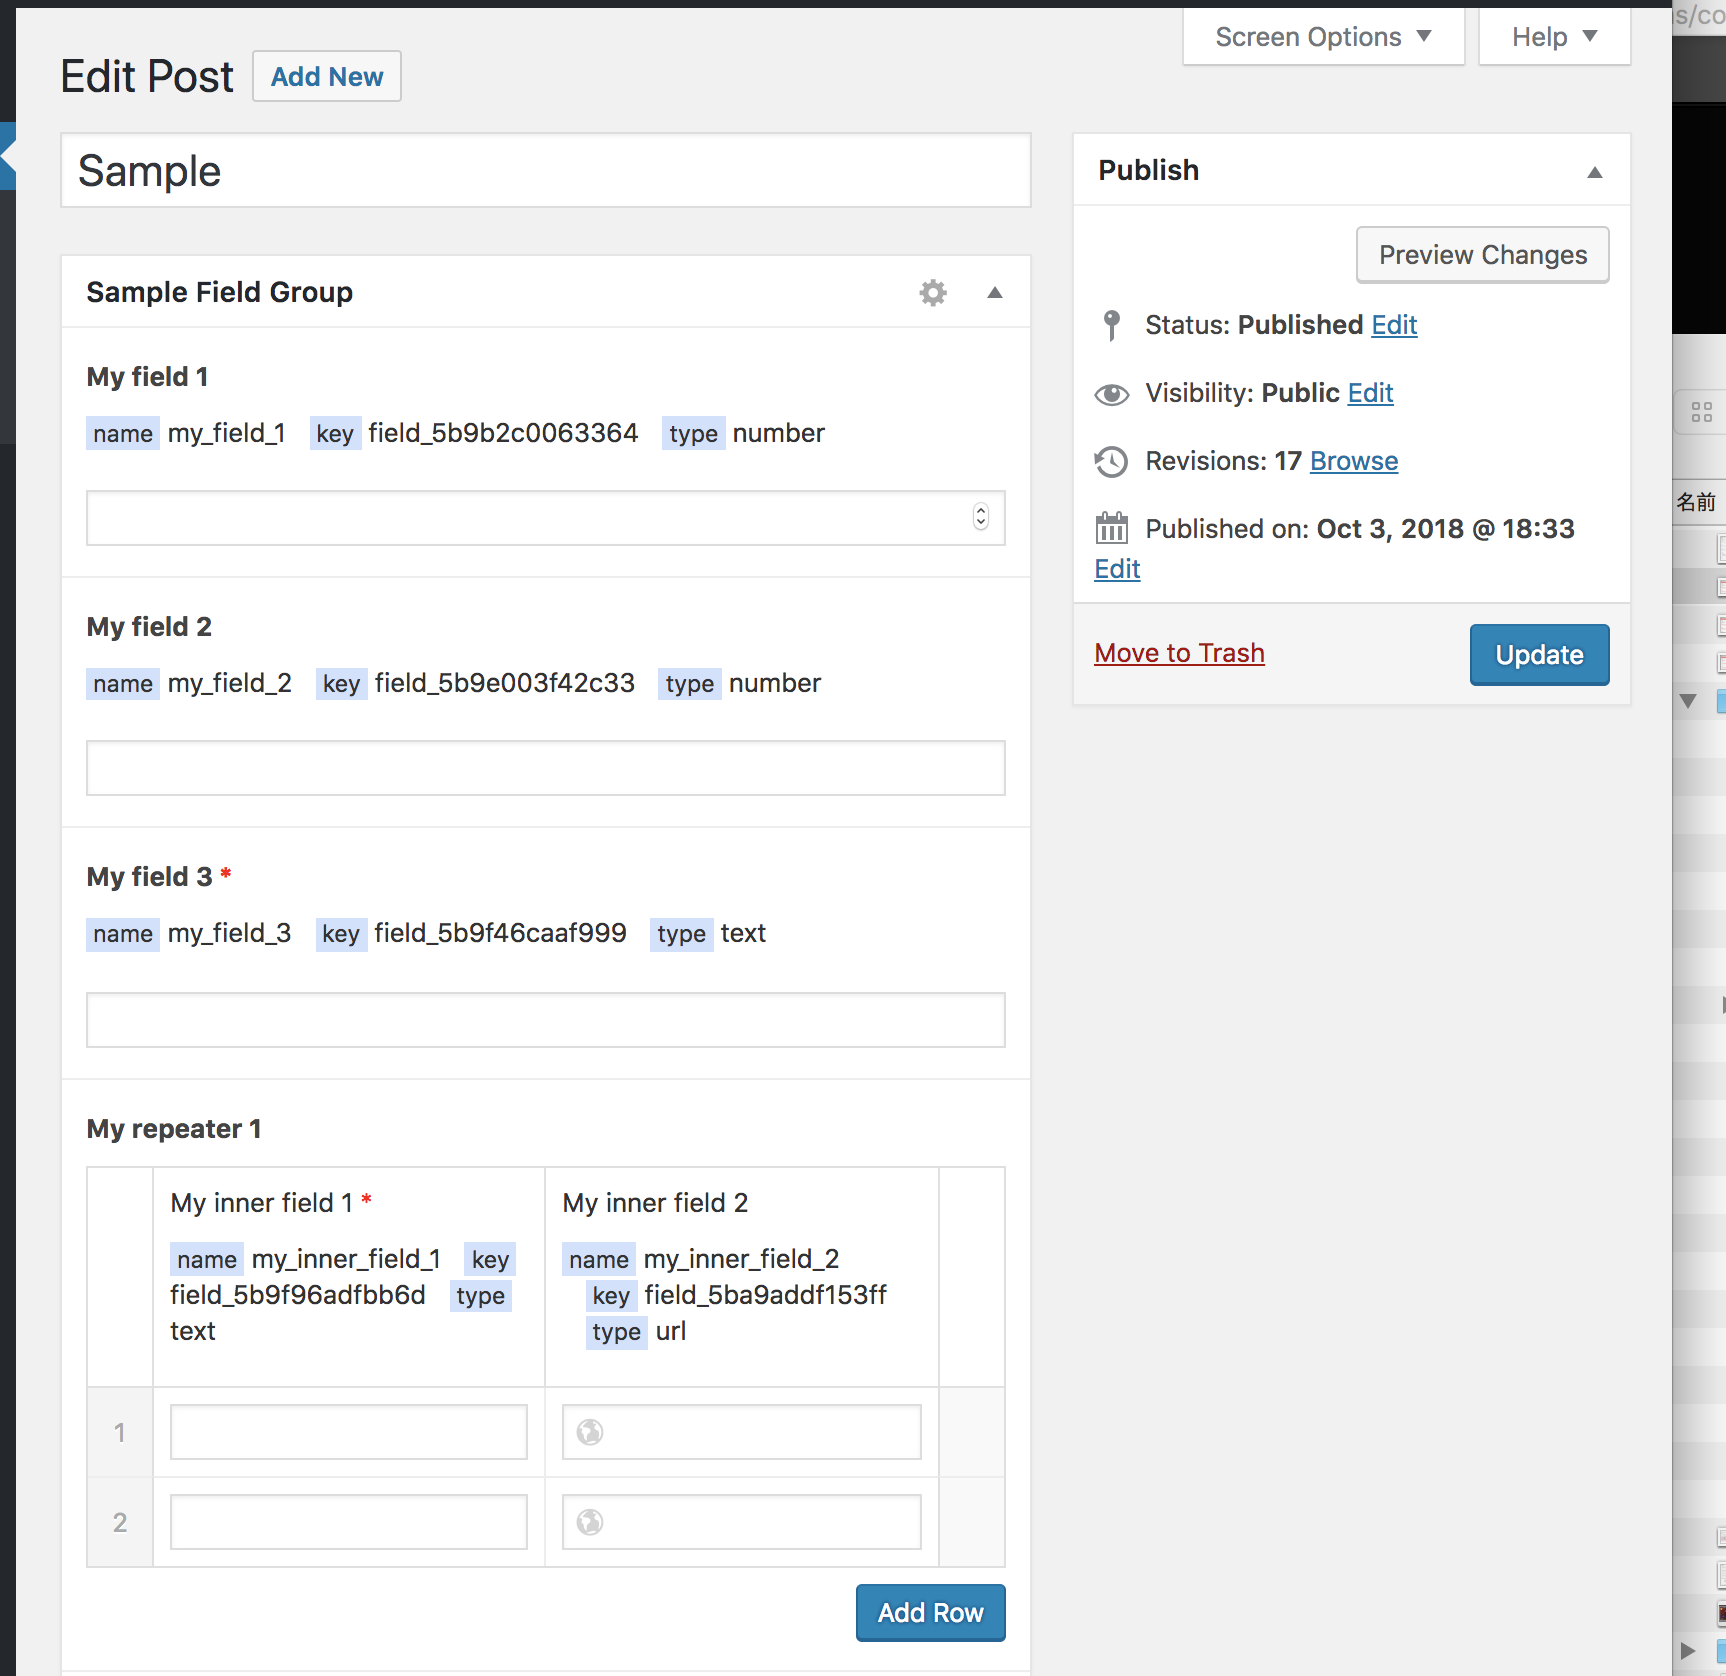
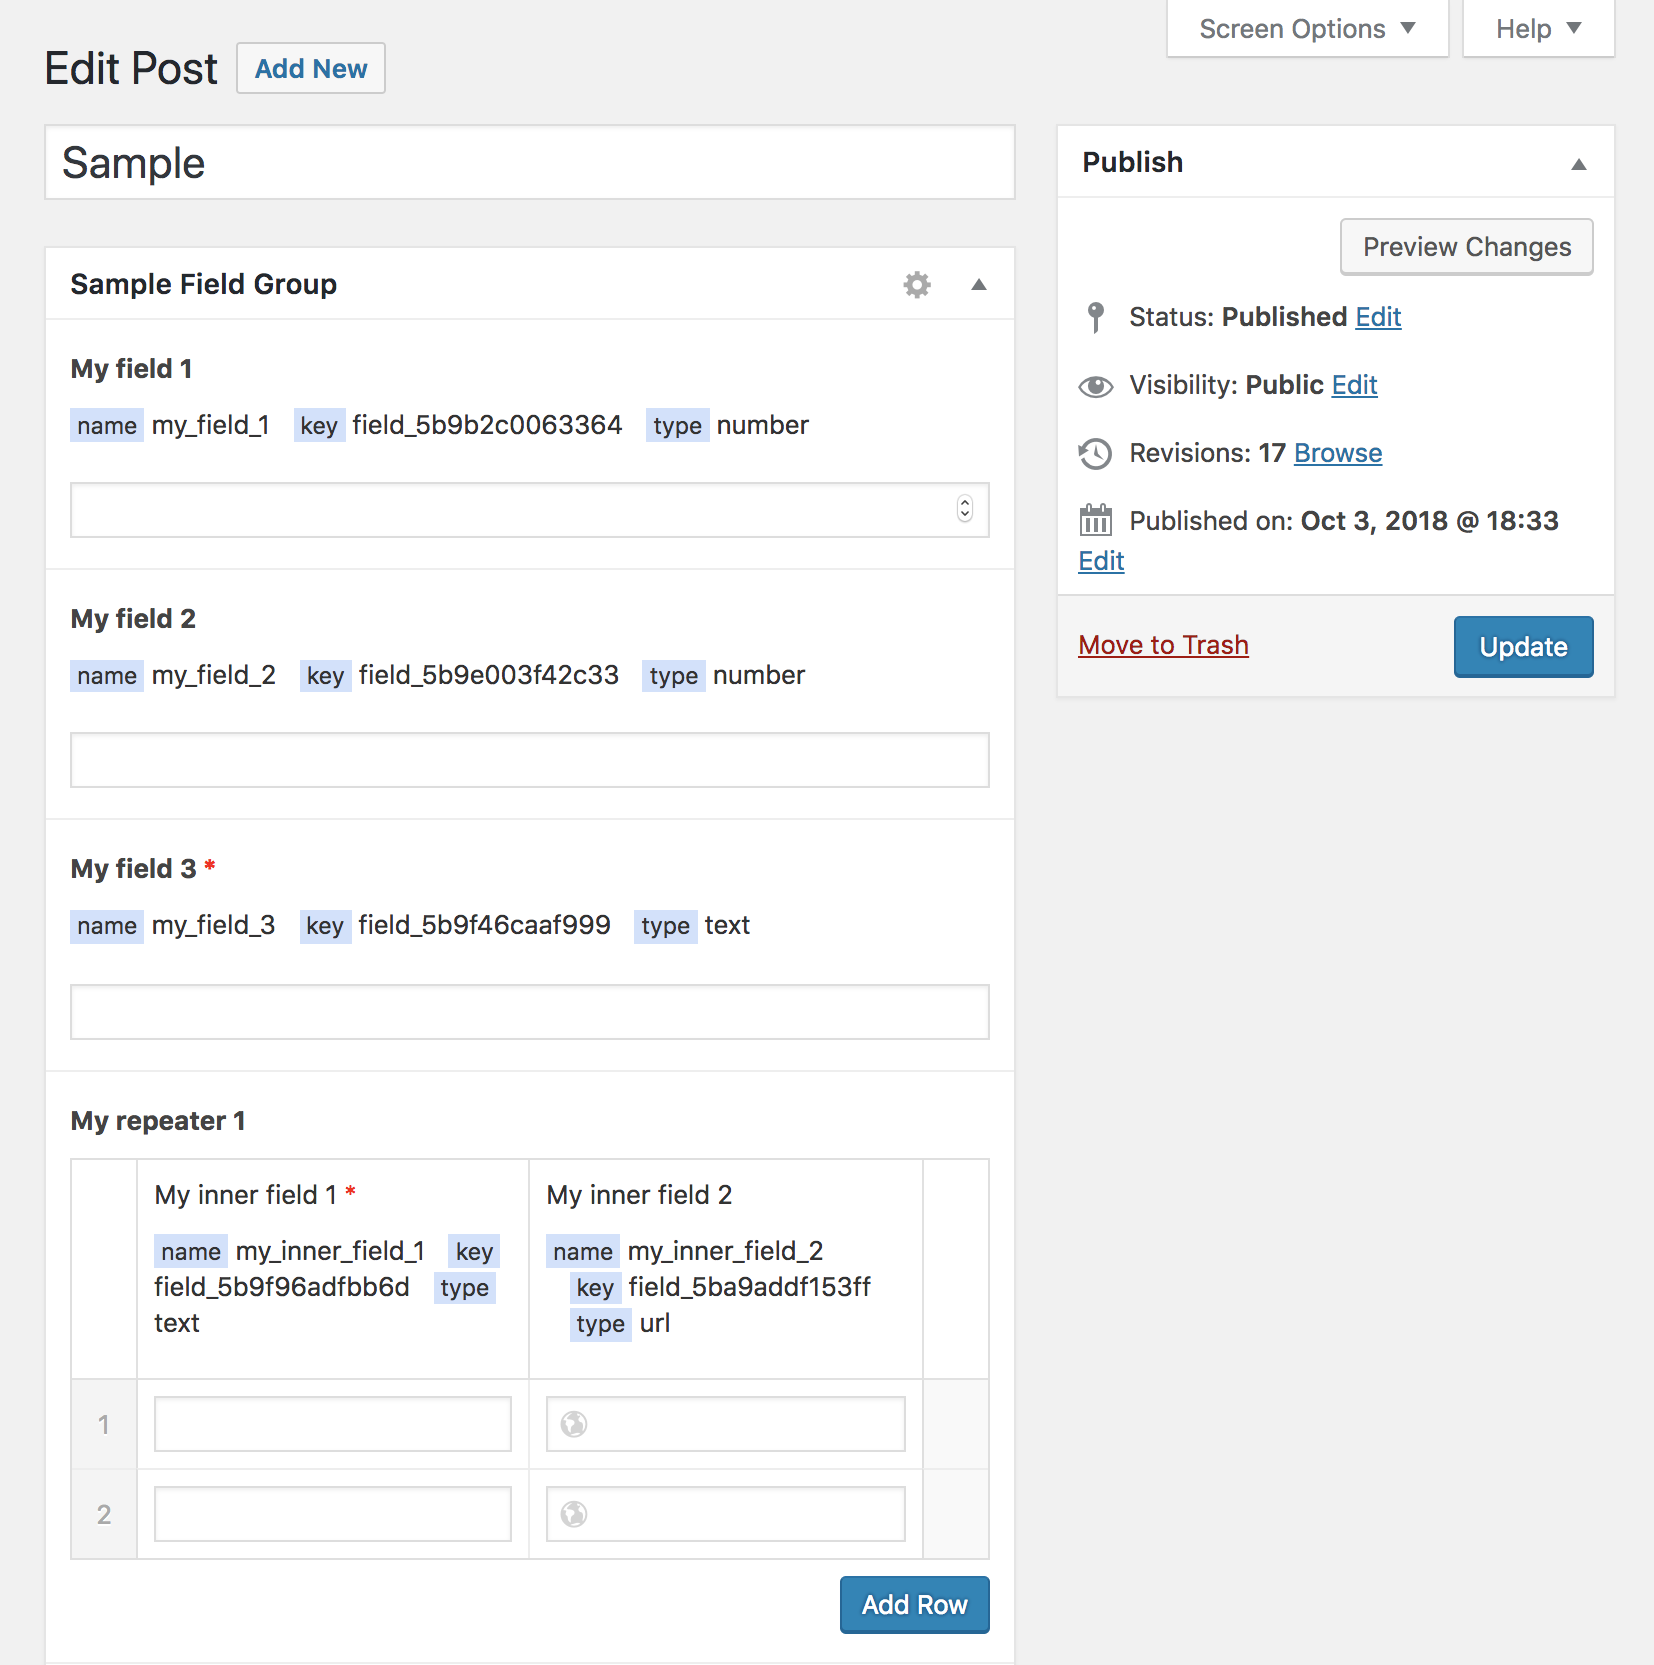
change option field validate code

diff --git a/assets/css/developer-tools-for-acf-field.css b/assets/css/developer-tools-for-acf-field.css
@@ -69,5 +69,4 @@
 
 .pm-acf-panels .td.label{
 	font-weight: bold;
-	padding-right: 2em;
 }

diff --git a/includes/developer-tools-for-acf-option_page.php b/includes/developer-tools-for-acf-option_page.php
@@ -1,5 +1,6 @@
 <?php
 /* Settings Page */
+/* ver. 1.1 */
 
 if ( ! defined( 'ABSPATH' ) ) exit;
 
@@ -165,13 +166,9 @@ class Developer_Tools_For_Acf_Settings_Page {
 				continue;
 			}
 			add_settings_field( $field['id'], $field['label'], [ $this, 'field_callback' ], $this->plugin_id, $field['section'], $field );
-			if ( method_exists( __CLASS__, 'validate_' . str_replace( $this->prefix, '', $field['id'] ) ) ) {
-				// validation exists
-				register_setting( $this->plugin_id, $field['id'], [ $this, 'validate_' . str_replace( $this->prefix, '', $field['id'] ) ] );
-			} else {
-				// no validation
-				register_setting( $this->plugin_id, $field['id'] );
-			}
+			// if you want a custom sanitization/validation for a certain field, prepare method named 'validate_{$field['id']}'
+			$callback = ( method_exists( $this, 'validate_' . $field['id'] ) ) ? 'validate_' . $field['id'] : 'sanitize';
+			register_setting( $this->plugin_id, $field['id'], [ $this, $callback ] );
 		}
 	}
 
@@ -197,7 +194,7 @@ class Developer_Tools_For_Acf_Settings_Page {
 							$field['id'],
 							$field['type'],
 							$key,
-							( isset( $value[ array_search( $key, $value, true) ] ) ) ? checked( $value[ array_search( $key, $value, true ) ], $key, false ) : '',
+							( isset( $value[ array_search( $key, $value, true ) ] ) ) ? checked( $value[ array_search( $key, $value, true ) ], $key, false ) : '',
 							$label,
 							$iterator
 						);
@@ -220,7 +217,15 @@ class Developer_Tools_For_Acf_Settings_Page {
 		}
 	}
 
-	public function validate_capability( $input ) {
+	public function sanitize( $input ) {
+		if ( is_string( $input ) ) {
+			$input = esc_html( trim( $input ) );
+		}
+		return $input;
+	}
+
+	public function validate_dtfa_capability( $input ) {
+		$input = esc_html( trim( $input ) );
 		// multibyte character included?
 		if( strlen( $input ) !== mb_strlen( $input, 'utf8' ) ) {
 			add_settings_error(

diff --git a/developer-tools-for-acf.php b/developer-tools-for-acf.php
@@ -3,7 +3,7 @@
 Plugin Name: Developer Tools For ACF
 Plugin URI:
 Description: Provide developer tools for ACF
-Version: 1.0
+Version: 1.0.1
 Author: PRESSMAN
 Author URI: https://www.pressman.ne.jp/
 License: GPLv2 or later
@@ -23,9 +23,9 @@ class Developer_Tools_For_Acf{
 	function __construct() {
 		if ( defined( 'DOING_AJAX' ) && DOING_AJAX ) { return; }
 		// Add a display of ACF field details in ACF form
-		add_action( 'admin_enqueue_scripts', [ $this, 'load_js_and_css_for_field_group' ] );
 		add_action( 'acf/render_fields', [ $this, 'load_js_and_css_for_form' ], 10, 2 );
 		// Add columns in ACF field group screen.
+		add_action( 'admin_enqueue_scripts', [ $this, 'load_js_and_css_for_field_group' ] );
 		add_filter( 'manage_edit-acf-field-group_columns', [ $this, 'manage_field_group_columns' ], 100 );
 		add_action( 'manage_acf-field-group_posts_custom_column', [ $this, 'manage_field_group_custom_column' ], 100 );
 	}
